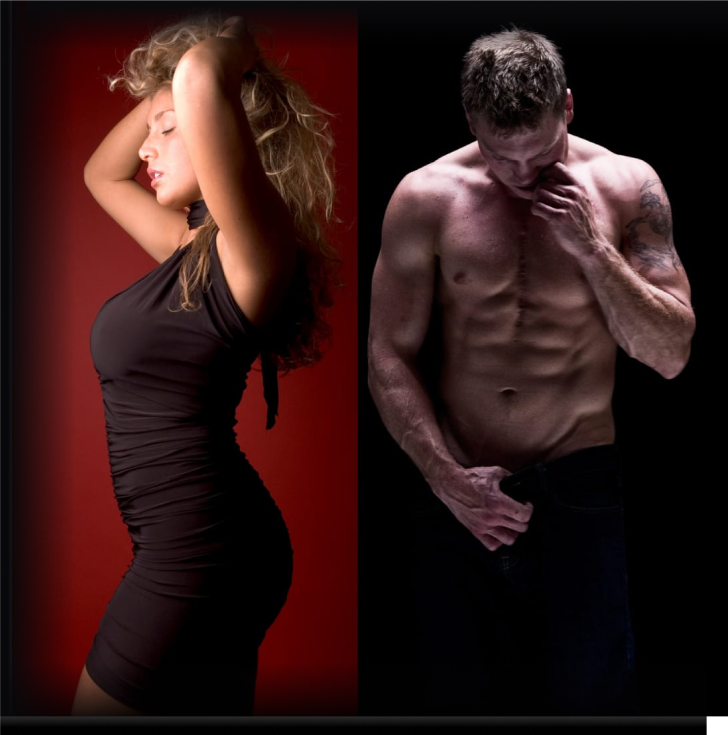
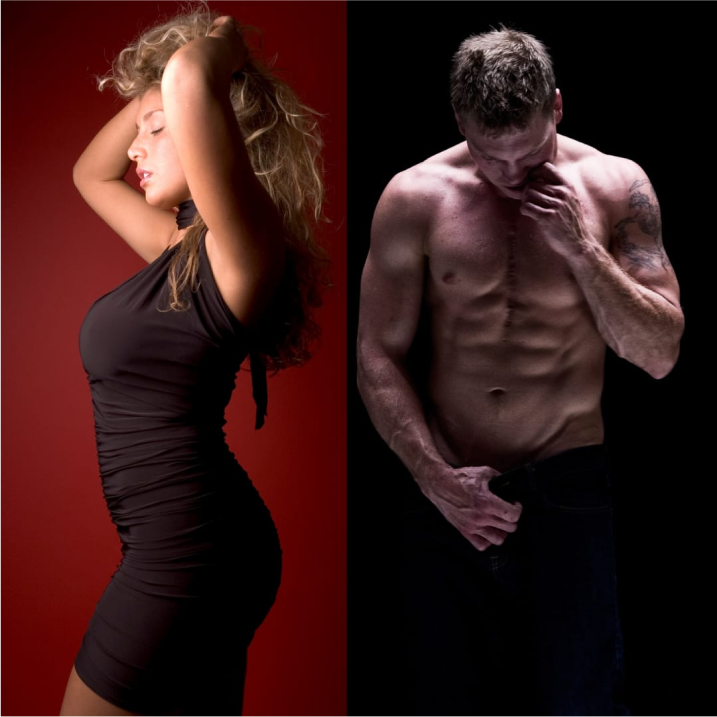
image gradient fix and stamp added

diff --git a/index.html b/index.html
@@ -28,7 +28,16 @@
                     <div class="blur-effect"></div>
                 </div>
                 <div class="hero-image-side">
-                    <img src="images/hero-image.png" alt="uma mulher loira em um fundo vermelho vinho posando de lado para foto e um homem sem camisa olhando para baixo, também posando para foto.">
+                    <div class="relative">
+                        <div class="top-shadow"></div>
+                        <div class="left-shadow"></div>
+                        <div class="right-shadow"></div>
+                        <div class="bottom-shadow"></div>
+                        <img class="hero__image" src="images/hero-image.png" alt="uma mulher loira em um fundo vermelho vinho posando de lado para foto e um homem sem camisa olhando para baixo, também posando para foto.">
+                        <div class="stamp-wrapper">
+                            <img src="images/carimbo-22.png" alt="carimbo">
+                        </div>
+                    </div>
                 </div>
                 <div class="hero-text-side">
                     <div class="hero-text-side-title-wrapper desktop">
@@ -37,7 +46,9 @@
                         <div class="blur-effect"></div>
                     </div>
                     <p>Descubra sozinha(o) o passo a passo para ganhar dinheiro sem sair de casa.</p>
-                    <button><a href="https://pay.hotmart.com/error?errorMessage=005">ACESSE O CONTEÚDO</a></button>
+                    <button>
+                        <a onclick="return false;" href="https://pay.hotmart.com/G83583148Y?checkoutMode=2" class="hotmart-fb hotmart__button-checkout">ACESSE O CONTEÚDO</a> 
+                    </button>
                 </div>
             </div>
         </section>
@@ -55,7 +66,7 @@
                         <li>Conquiste sua independência financeira.</li>
                         <li>Você é o seu maior investimento</li>
                     </ul>
-                    <button><a href="https://pay.hotmart.com/error?errorMessage=005">ACESSE O CONTEÚDO</a></button>
+                    <button><a onclick="return false;" href="https://pay.hotmart.com/G83583148Y?checkoutMode=2" class="hotmart-fb hotmart__button-checkout">ACESSE O CONTEÚDO</a></button>
                 </div>
             </div>
         </section>
@@ -63,5 +74,18 @@
     <footer>
         <p>Copyright © 2023 Guia Secreto. Todos os direitos reservados.</p>
     </footer>
+    <script type="text/javascript">
+        function importHotmart(){ 
+          var imported = document.createElement('script'); 
+          imported.src = 'https://static.hotmart.com/checkout/widget.min.js'; 
+          document.head.appendChild(imported); 
+/*         var link = document.createElement('link'); 
+        link.rel = 'stylesheet'; 
+        link.type = 'text/css'; 
+        link.href = 'https://static.hotmart.com/css/hotmart-fb.min.css'; 
+        document.head.appendChild(link); */ } 
+          importHotmart(); 
+         </script> 
+        
 </body>
 </html>

diff --git a/style.css b/style.css
@@ -141,6 +141,19 @@ button a {
   padding: .4rem .75rem;
 }
 
+/* .hotmart__button-checkout {
+  font-size: var(--fs-400) !important;
+  font-family: var(--ff-primary) !important;
+  display: flex !important;
+  background: none !important;
+  text-shadow: none !important;
+  box-shadow: none !important;
+  border: 0 !important;
+  border-radius: 0 !important;
+  padding: .4rem .75rem !important;
+  transition: none !important;
+} */
+
 @keyframes pulse-animation {
   50% {
     box-shadow: 0rem 0rem 2rem #D7A548;
@@ -207,14 +220,43 @@ button:hover {
   }
 }
 
-.hero-image-side img {
+.hero-image-side {
+  position: relative;
+  height: auto;
+}
+
+.relative {
+  position: relative;
+}
+
+.hero-image-side .hero__image {
   margin-inline: auto;
   width: min(100%, 36rem);
 }
 
 @media (min-width: 56.25em) {
-  .hero-image-side img {
+  .hero-image-side .hero__image {
     width: auto;
+    margin: 0;
+  }
+}
+
+.hero-image-side .stamp-wrapper {
+  position: relative;
+  z-index: 3;
+  width: clamp(6rem, 30vw, 10.625rem);
+  margin-left: 1rem;
+  top: -2rem;
+}
+
+@media (min-width: 56.25em) {
+  .hero-image-side .stamp-wrapper {
+    width: clamp(4rem, 12vw, 10.625rem);
+    position: absolute;
+    left: -5rem;
+    bottom: 2rem;
+    margin: 0;
+    top: auto;
   }
 }
 
@@ -320,7 +362,7 @@ button:hover {
   margin-block: 1rem;
 }
 
-@media (min-width: 50em) {
+@media (min-width: 56.25em) {
   .hero-text-side p {
     margin-block: 2.5rem;
   }
@@ -524,4 +566,49 @@ footer {
   -webkit-background-clip: text;
   background-clip: text;
   color: transparent;
+}
+
+.top-shadow, 
+.right-shadow, 
+.left-shadow, 
+.bottom-shadow {
+  position: absolute;
+}
+
+.top-shadow {
+  top: -5px;
+  left: 0;
+  width: 100%;
+  height: 20%;
+  background-image: linear-gradient(to bottom, #060407, transparent);
+}
+
+.left-shadow {
+  height: 100%;
+  width: 20%;
+  left: 0;
+  bottom: 0;
+  background-image: linear-gradient(to right, #060407, transparent);
+}
+
+.right-shadow {
+  height: 100%;
+  width: 20%;
+  right: 0;
+  bottom: 0;
+  background-image: linear-gradient(to left, #060407, transparent);
+}
+
+@media (min-width: 56.25em) {
+  .right-shadow {
+    display: none;
+  }
+}
+
+.bottom-shadow {
+  width: 100%;
+  height: 20%;
+  bottom: 0;
+  left: 0;
+  background-image: linear-gradient(to top, #060407, transparent);
 }
